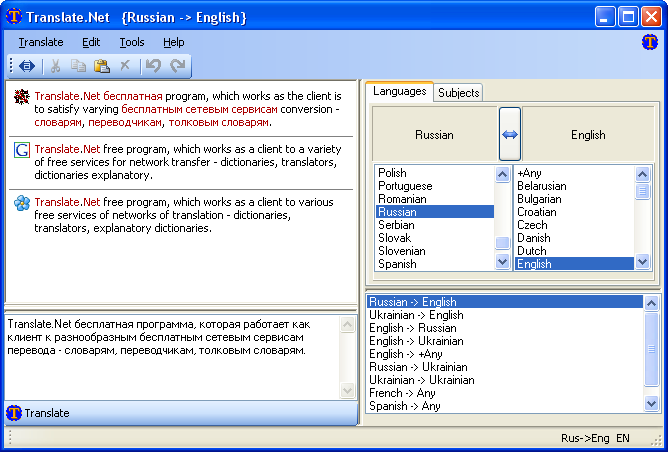
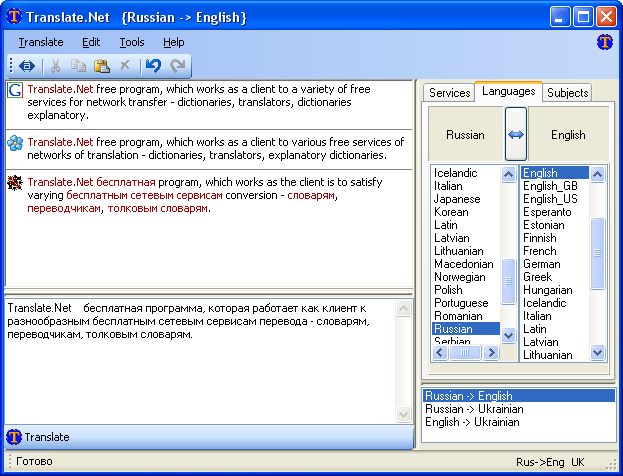
updated site for version 0.1.2959.24345

diff --git a/Translate.Net/site/changelog.uk.html b/Translate.Net/site/changelog.uk.html
@@ -40,6 +40,20 @@
 <td>
 <hr style="width: 100%; height: 2px;">
 <div style="text-align: justify;" align="center"><br>
+
+<span style="font-weight: bold;">2008-02-07</span>
+<br>
+Version&nbsp;0.1.2959.24345 :
+<li>додана можливість вмикати\вимикати сервіси для мовної пари
+<li>додана підтримка розкладки клавіатури "Strange ukraine 1.6"
+<li>у меню "Довідка" додані пункти для відкриття сайту програми та відсилання репортів о помилках та пропозицій
+<li>після оновлення програми показується журнал змін
+<li>Закладка "Оновлення" у налаштуваннях показує статистику оновлень - час останього оновлення, час останьої та наступної перевірки оновлення
+<li>вимкнено звук клацання після отримання результату перекладу
+<li>виправлено помилку із комбинацією клавіш Ctrl+C, яка на самому ділі не копіювала текст, а вирізала 
+<br>
+<br>
+
 <span style="font-weight: bold;">2008-02-02</span>
 <br>
 Зроблен цей сайт

diff --git a/Translate.Net/site/features.uk.html b/Translate.Net/site/features.uk.html
@@ -74,7 +74,7 @@ Copyleft (L) 2000-2008, Kyiv, Valentyn Solomko</li>
 Підтримка української та англійської мови у інтерфейсі.
 <br>
 <br>
-<div style="text-align: center;"><img style="width: 668px; height: 452px;" alt="Screenshort" src="screen1.uk.png"><br>
+<div style="text-align: center;"><img alt="Screenshort" src="screen1.uk.png"><br>
 </div>
 <br>
 Інтерфейс користувача включає декілька зручностей:<br>
@@ -88,7 +88,7 @@ Copyleft (L) 2000-2008, Kyiv, Valentyn Solomko</li>
 Ctrl+Ins+Ins) дозволяють активувати <span style="font-weight: bold;">Translate.Net</span>
 і легко виконувати переклад з інших програм&nbsp;</li>
 </ul>
-<div style="text-align: center;"><img style="width: 592px; height: 488px;" alt="" src="screen2.uk.png"></div>
+<div style="text-align: center;"><img alt="" src="screen2.uk.png"></div>
 <br>
 </div>
 </td>

diff --git a/Translate.Net/site/changelog.en.html b/Translate.Net/site/changelog.en.html
@@ -39,12 +39,27 @@
 <tr>
 <td>
 <hr style="width: 100%; height: 2px;">
-<div style="text-align: justify;" align="center"><br>
+<div style="text-align: justify;" align="center">
+<br>
+
+<span style="font-weight: bold;">2008-02-07</span>
+<br>
+Version&nbsp;0.1.2959.24345 :
+<li>ability to enable\disable services for selected language pair\subject
+<li>menus to send feedback and open site added to "Help" menu
+<li>the result control show changelog web page after update 
+<li>"Updates" tab of options show update statistics - last update time, last and next update check time 
+<li>muted "click" sound of Internet Explorer control on navigating 
+<li>fixed bug with Ctrl+C, which really does cut instead of copy
+<br>
+<br>
+
 <span style="font-weight: bold;">2008-02-02</span>
 <br>
 Site created.
 <br>
 <br>
+
 <span style="font-weight: bold;">2008-02-01</span>
 <br>
 Version&nbsp;0.1.2953.2644. First public alpha preview release. 6 services, 2 GUI language (English, Ukrainian)

diff --git a/Translate.Net/site/features.en.html b/Translate.Net/site/features.en.html
@@ -75,7 +75,7 @@ Copyleft (L) 2000-2008, Kyiv, Valentyn Solomko</li>
 The user interface is intuitive and quickly learnable without
 assistance. Supported English and Ukrainian GUI. <br>
 <br>
-<div style="text-align: center;"><img style="width: 668px; height: 452px;" alt="Screenshort" src="screen1.eng.png"><br>
+<div style="text-align: center;"><img alt="Screenshort" src="screen1.eng.png"><br>
 </div>
 <br>
 User interface enchanced with many smart improvements:<br>
@@ -90,7 +90,7 @@ Ctrl+Ins+Ins) </span><span>allow </span><span>to
 activate <span style="font-weight: bold;">Translate.Net</span>
 and perform translation from any program easy&nbsp;</span></li>
 </ul>
-<div style="text-align: center;"><img style="width: 592px; height: 488px;" alt="" src="screen2.eng.png"></div>
+<div style="text-align: center;"><img alt="" src="screen2.eng.png"></div>
 <br>
 </div>
 </td>

diff --git a/Translate.Net/site/screenshots.uk.html b/Translate.Net/site/screenshots.uk.html
@@ -46,14 +46,23 @@
 <div style="text-align: center;"><span style="font-weight: bold;"></span>Інтерфейс користувача <br>
 </div>
 <br>
-<div style="text-align: center;"><img style="width: 668px; height: 452px;" alt="Screenshort" src="screen1.uk.png"><br>
+<div style="text-align: center;"><img alt="Screenshort" src="screen1.uk.png"><br>
 </div>
 <br>
 <br>
+
+<div style="text-align: center;"><span style="font-weight: bold;"></span>Панель інформації сервісів<br>
+</div>
+<br>
+<div style="text-align: center;"><img alt="Screenshort" src="screen3.uk.png"><br>
+</div>
+<br>
+<br>
+
 <div style="text-align: center;">Форма налаштувань
 </div>
 <div style="text-align: center;"><br>
-<img style="width: 592px; height: 488px;" alt="" src="screen2.uk.png"></div>
+<img alt="" src="screen2.uk.png"></div>
 <br>
 </div>
 </td>

diff --git a/Translate.Net/site/screenshots.en.html b/Translate.Net/site/screenshots.en.html
@@ -46,14 +46,23 @@
 <div style="text-align: center;"><span style="font-weight: bold;"></span>GUI <br>
 </div>
 <br>
-<div style="text-align: center;"><img style="width: 668px; height: 452px;" alt="Screenshort" src="screen1.eng.png"><br>
+<div style="text-align: center;"><img alt="Screenshort" src="screen1.eng.png"><br>
 </div>
 <br>
 <br>
+
+<div style="text-align: center;"><span style="font-weight: bold;"></span>Services info <br>
+</div>
+<br>
+<div style="text-align: center;"><img alt="Screenshort" src="screen3.eng.png"><br>
+</div>
+<br>
+<br>
+
 <div style="text-align: center;">Options form
 </div>
 <div style="text-align: center;"><br>
-<img style="width: 592px; height: 488px;" alt="" src="screen2.eng.png"></div>
+<img alt="" src="screen2.eng.png"></div>
 <br>
 </div>
 </td>

diff --git a/Translate.Net/site/index.uk.html b/Translate.Net/site/index.uk.html
@@ -48,7 +48,7 @@
 Вона розроблена із зручним інтерфейсом, щоб дозволити використати різні сервіси з одного місця.    
 <br>
 <br>
-<div style="text-align: center;"><img style="width: 668px; height: 452px;" alt="Screenshort" src="screen1.uk.png"><br>
+<div style="text-align: center;"><img alt="Screenshort" src="screen1.uk.png"><br>
 </div>
 <br>
 У порівнянні із звичайним програмним забезпеченням для перекладів, яке використовує словники розміщені на диску комп'ютера, <span style="font-weight: bold;">Translate.Net</span>

diff --git a/Translate.Net/site/download.uk.html b/Translate.Net/site/download.uk.html
@@ -44,8 +44,8 @@
 <span style="font-weight: bold;">Завантажте та виконайте інсталяційну програму :</span>
 <br>
 <br>  
-<a href="http://translateclient.googlecode.com/files/Translate.Net.0.1.2953.2644.exe">Translate.Net
-version 0.1.2953.2644, 2008-02-01</a>
+<a href="http://translateclient.googlecode.com/files/Translate.Net.0.1.2959.24345.exe">Translate.Net
+version 0.1.2959.24345, 2008-02-07</a>
 <br>
 <br>
 <br>  

diff --git a/Translate.Net/site/index.en.html b/Translate.Net/site/index.en.html
@@ -49,7 +49,7 @@ available online (translators, monolingual and bilingual
 dictionaries). It designed with smart user interface to allow use
 diferent services from single place.<br>
 <br>
-<div style="text-align: center;"><img style="width: 668px; height: 452px;" alt="Screenshort" src="screen1.eng.png"><br>
+<div style="text-align: center;"><img alt="Screenshort" src="screen1.eng.png"><br>
 </div>
 <br>
 In comparison with locally installed dictionaries and

diff --git a/Translate.Net/site/download.en.html b/Translate.Net/site/download.en.html
@@ -43,8 +43,8 @@
 <div style="text-align: justify;" align="center"><br>
 
 <span style="font-weight: bold;">Download</span>
-<a href="http://translateclient.googlecode.com/files/Translate.Net.0.1.2953.2644.exe">Translate.Net
-version 0.1.2953.2644, 2008-02-01</a>
+<a href="http://translateclient.googlecode.com/files/Translate.Net.0.1.2959.24345.exe">Translate.Net
+version 0.1.2959.24345, 2008-02-07</a>
 installer and run it.<br>
 <br>
 <br>
